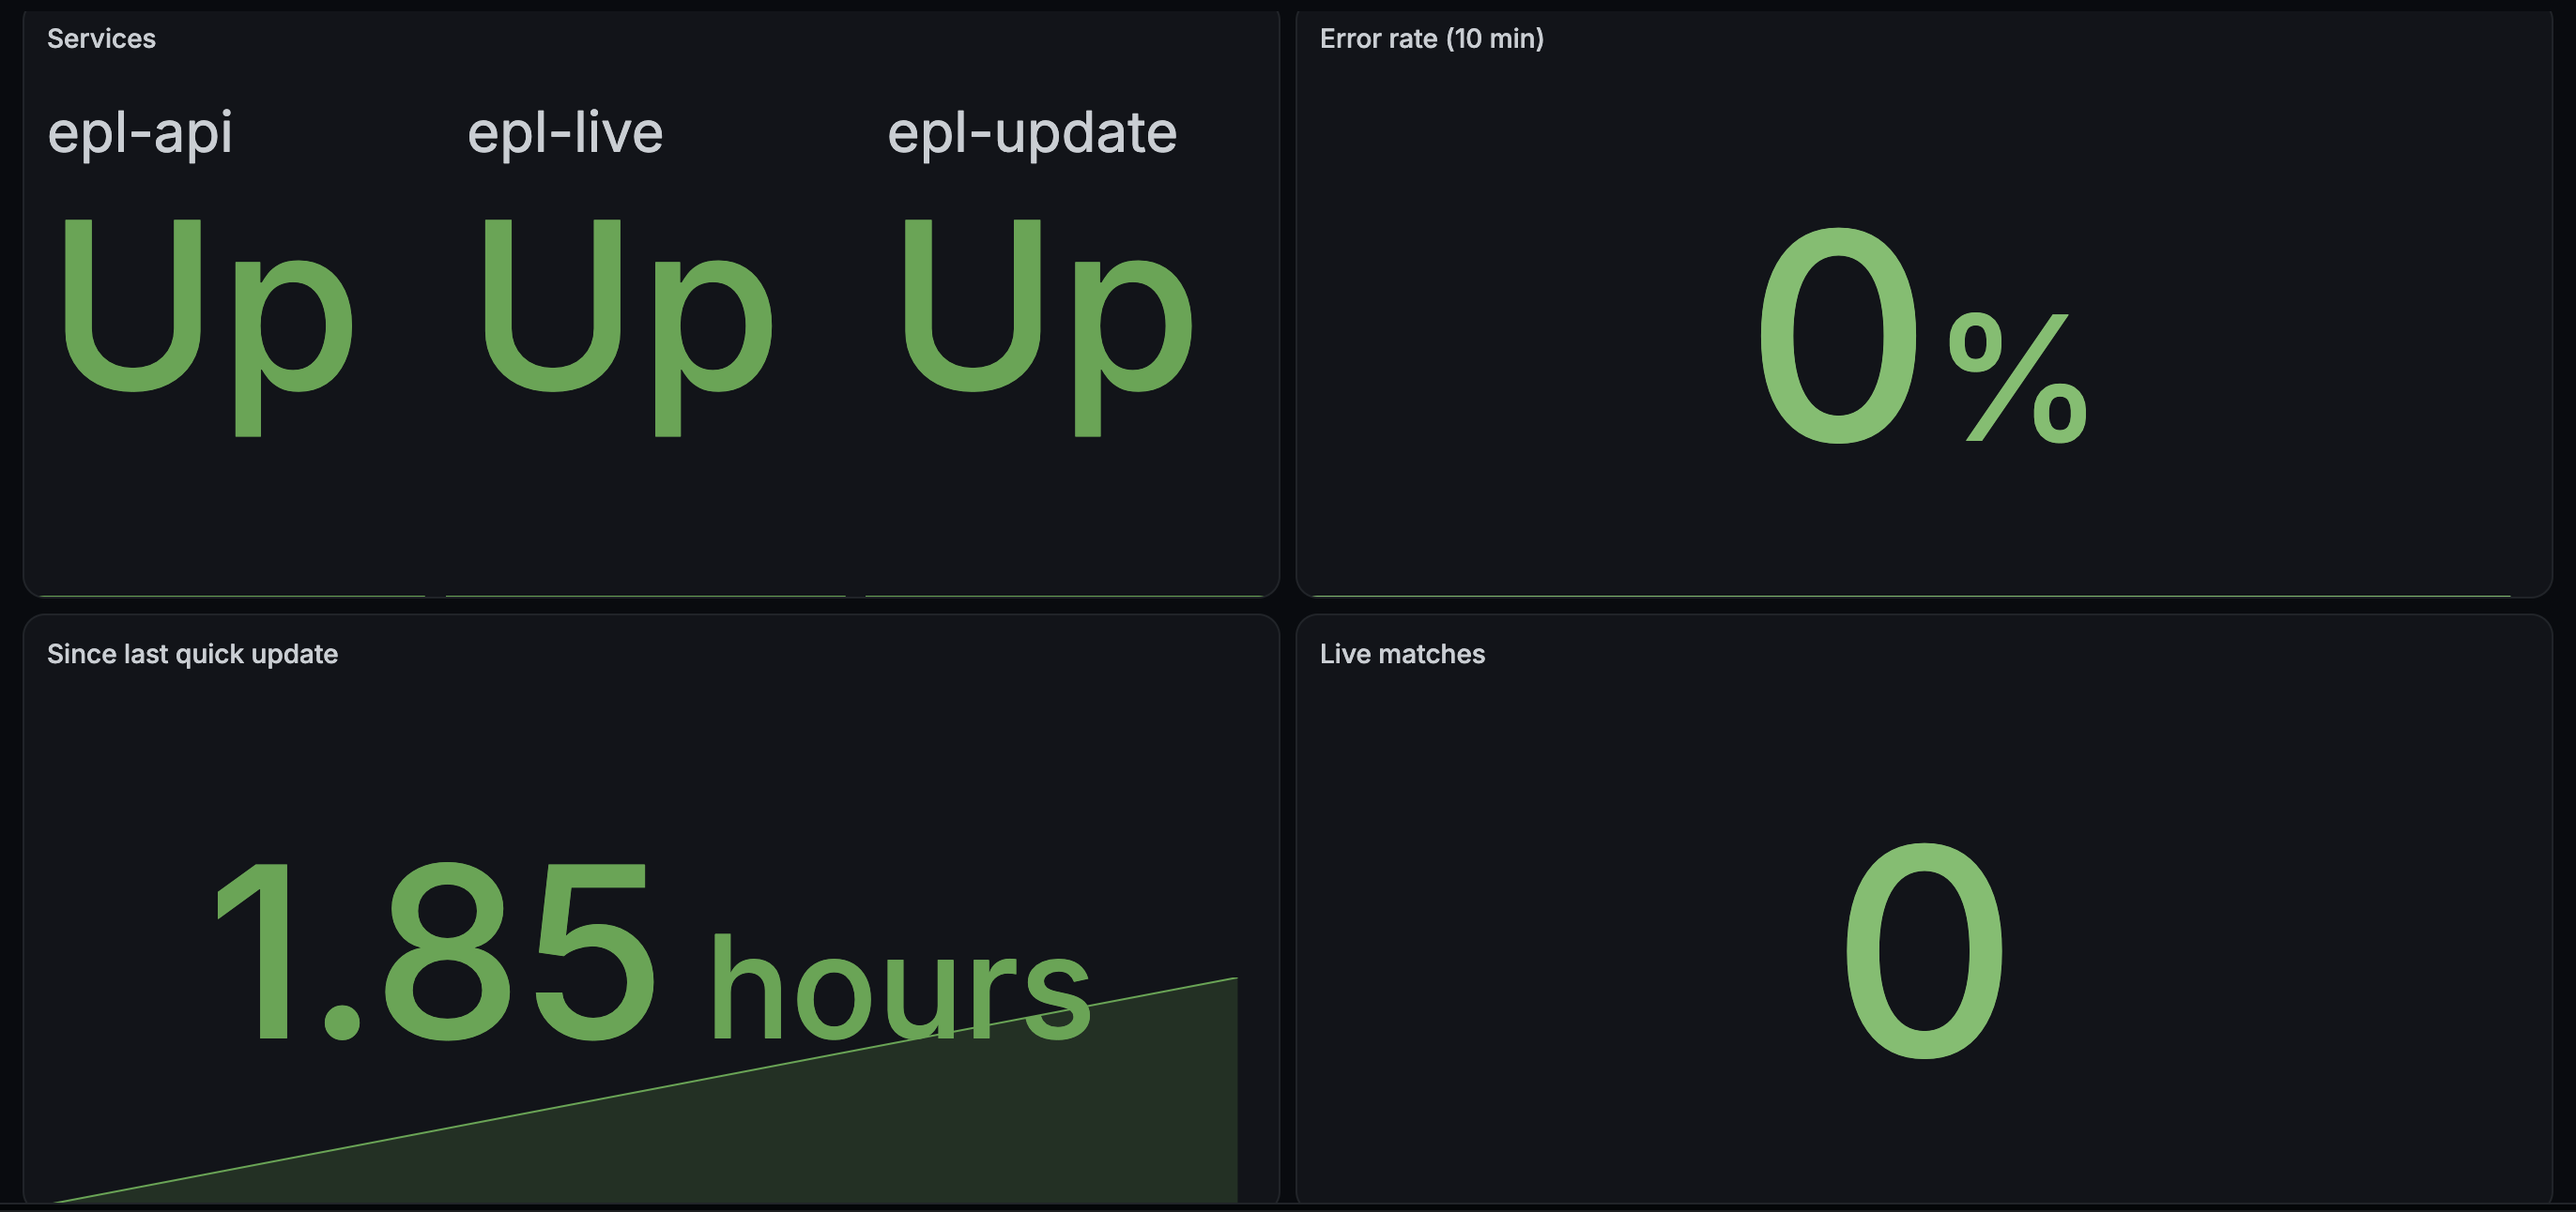
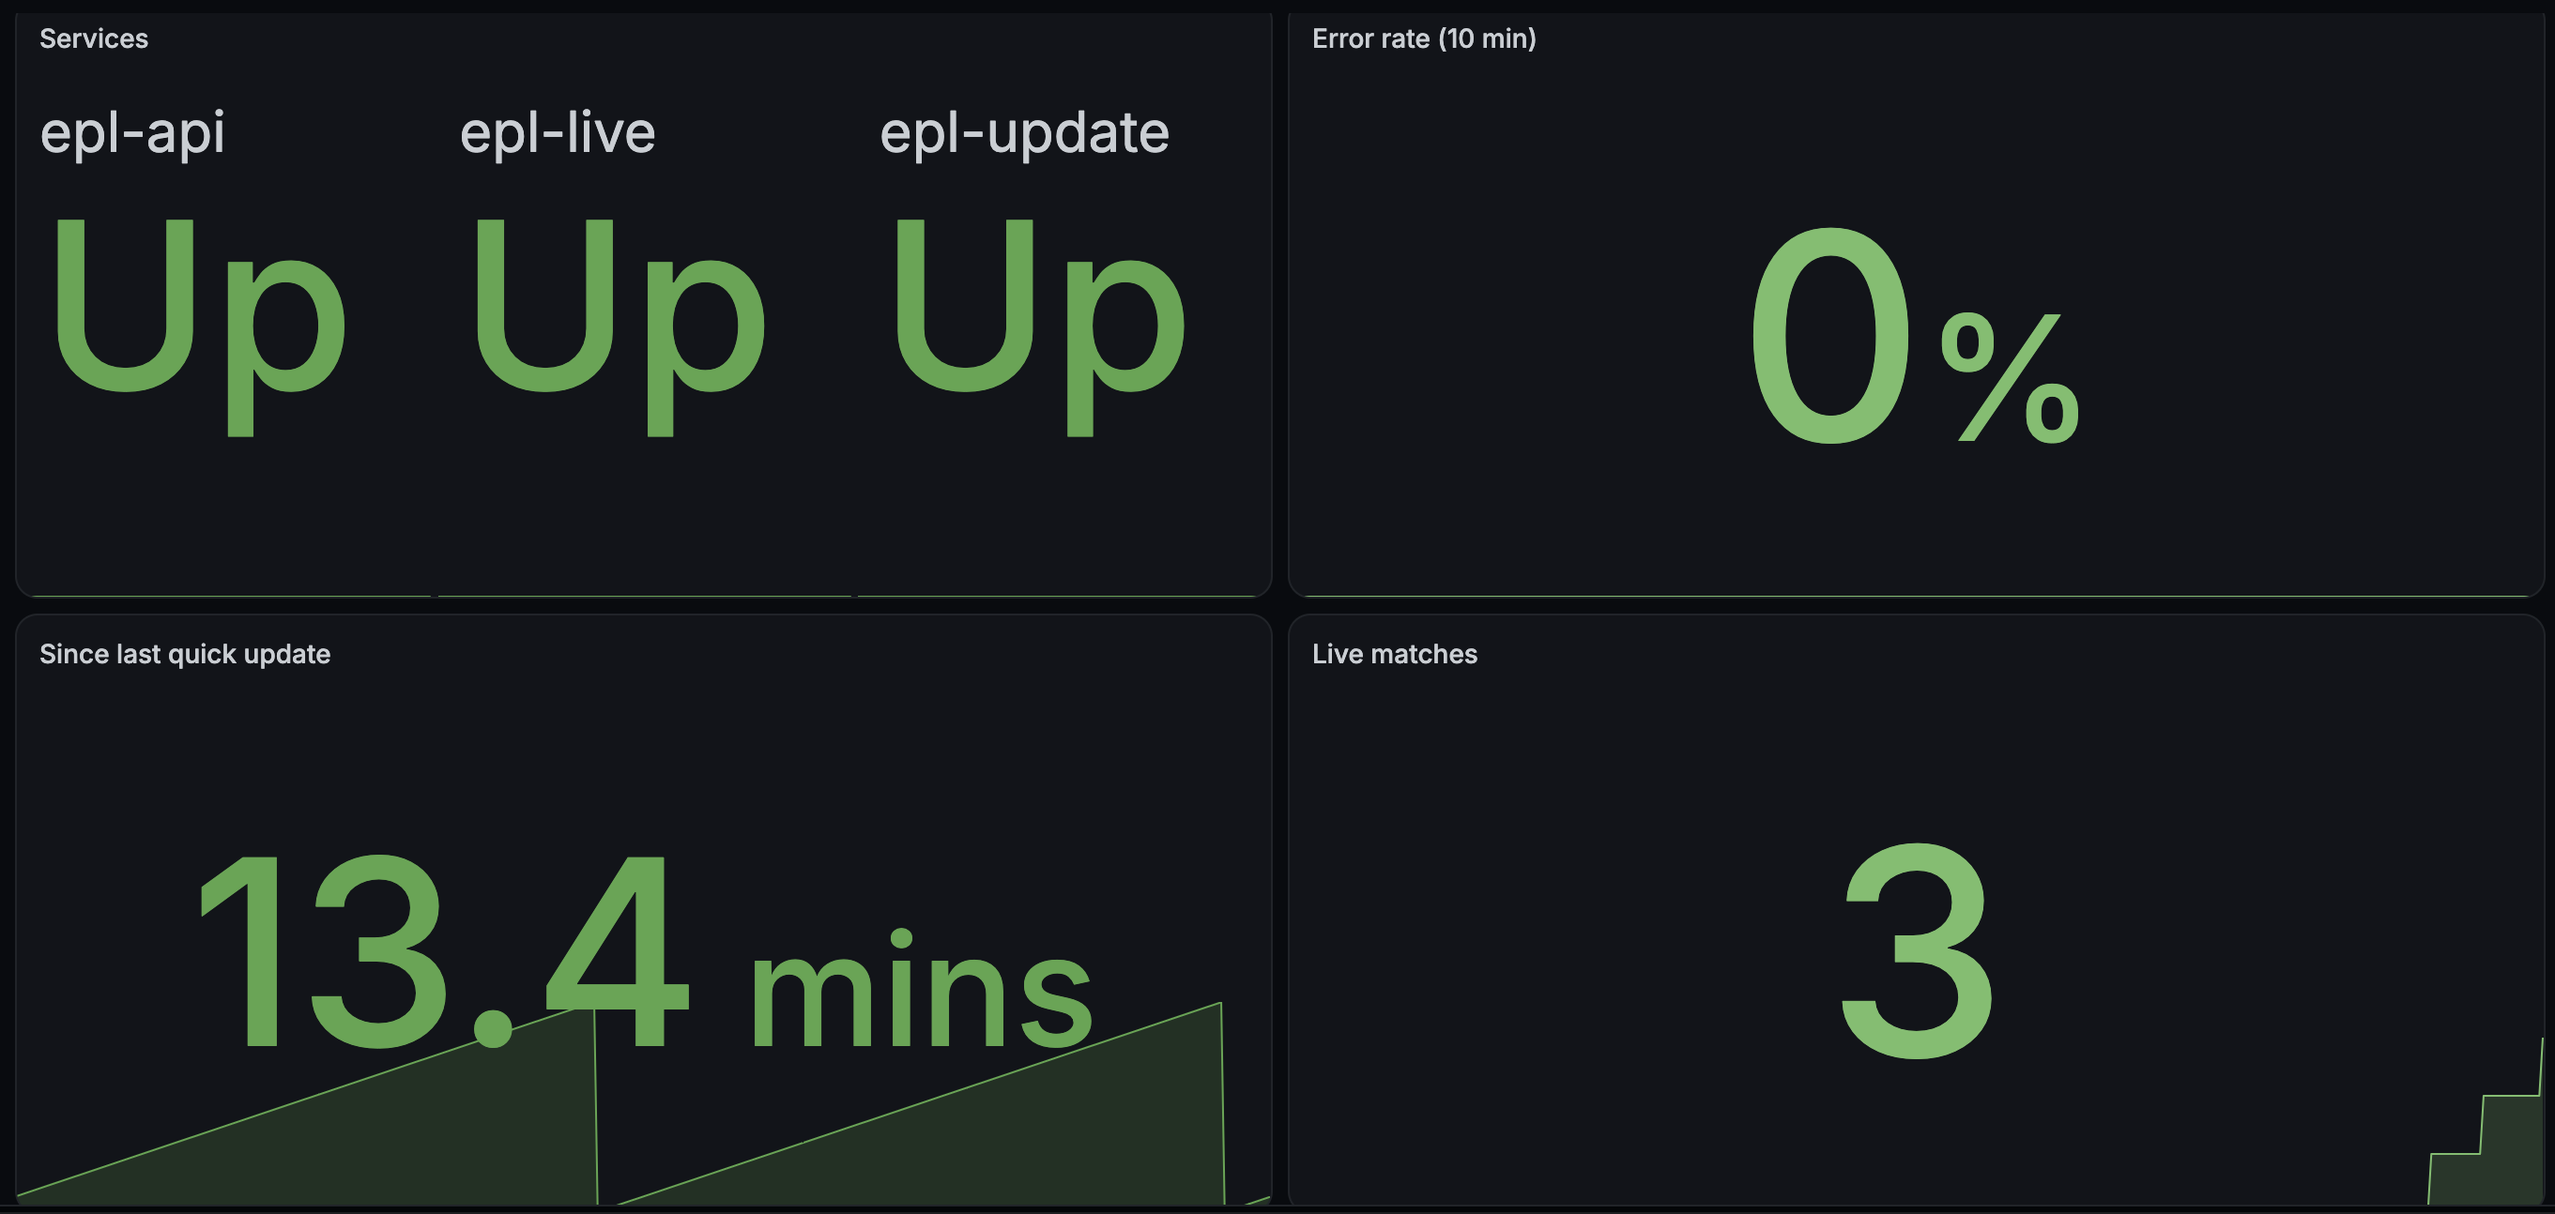
Docs/109 update grafana images (#111)
* docs(trace): added trace image to updated readme

* docs(images): added images and updated readme

Added overview image and a new trace image. Updated readme to look
better in github MD.

Closes #109

diff --git a/README.md b/README.md
@@ -41,36 +41,6 @@ odds, squads, and player images on a schedule.
 
 ---
 
-## Architecture
-
-```mermaid
-flowchart LR
-  USER[Browser] --> WEB[Next.js app<br/>Vercel]
-  WEB --> GW[AWS API Gateway]
-  GW --> API[Express API<br/>EC2]
-  subgraph EC2
-    API
-    LIVE[Live worker]
-    UPD[Update worker]
-  end
-  API --> DB[(PostgreSQL<br/>Supabase)]
-  LIVE --> DB
-  UPD --> DB
-  LIVE --> ESPN[ESPN]
-  UPD --> ESPN
-  UPD --> FD[football-data.org]
-  UPD --> ODDS[The Odds API]
-  UPD --> SDB[TheSportsDB]
-```
-
-- **Live worker:** polls ESPN every 30 seconds while matches are in play, and stores scores,
-  events, lineups, and stats.
-- **Update worker:** runs a quick update every few hours (results, standings, upcoming
-  fixtures) and a full daily update (odds, squads, top players, player images).
-- All three services run under systemd as a dedicated non-root user.
-
----
-
 ## Observability
 
 The API and both workers are fully instrumented. Grafana Alloy on the instance collects
@@ -105,12 +75,32 @@ flowchart LR
 | **Traces** (Tempo, via OpenTelemetry) | Every API request and worker run, with hand-written spans for each service function and database query                                |
 | **Alerts**                            | Service down, live worker stalled, quick update overdue, API error rate above 5%                                                      |
 
+### Service overview
+
+All three services, the API error rate, time since the last scheduled update, and live
+matches in progress.
+
+![Service overview](docs/images/overview.png)
+
+### Production dashboard
+
+Traffic, latency by route, and response codes. Server-side p95 stays around 25 ms under load.
+
+![Production dashboard](docs/images/dashboard.png)
+
+### Exemplars
+
 Latency panels use **exemplars**: each dot on the chart is a real request, and clicking it
 opens that request's trace.
 
-![Service overview](docs/images/overview.png)
-![Production dashboard](docs/images/dashboard.png)
 ![Exemplar linking a latency point to its trace](docs/images/exemplar.png)
+
+### Request trace
+
+One match simulation request. The three data lookups run in parallel, then the gap at the
+end is the 10,000-run Monte Carlo simulation itself.
+
+![Trace of a match simulation request](docs/images/trace.png)
 
 ### Infrastructure as code
 
@@ -120,8 +110,9 @@ touching that folder runs `terraform fmt`, `validate`, and `plan` in GitHub Acti
 
 ### Load test
 
-A [k6](load-test/api.js) script ramps to 20 concurrent users across the home and team pages:
-**p95 74 ms, 0% errors** over 2,800 requests.
+A [k6](load-test/api.js) script simulates users browsing the home page, a match preview, and
+a team page, with random leagues, seasons, teams, and real fixture IDs taken from the API's own
+responses: **p95 77 ms, 0% errors** over 3,400 requests at up to 20 concurrent users.
 
 ---
 
